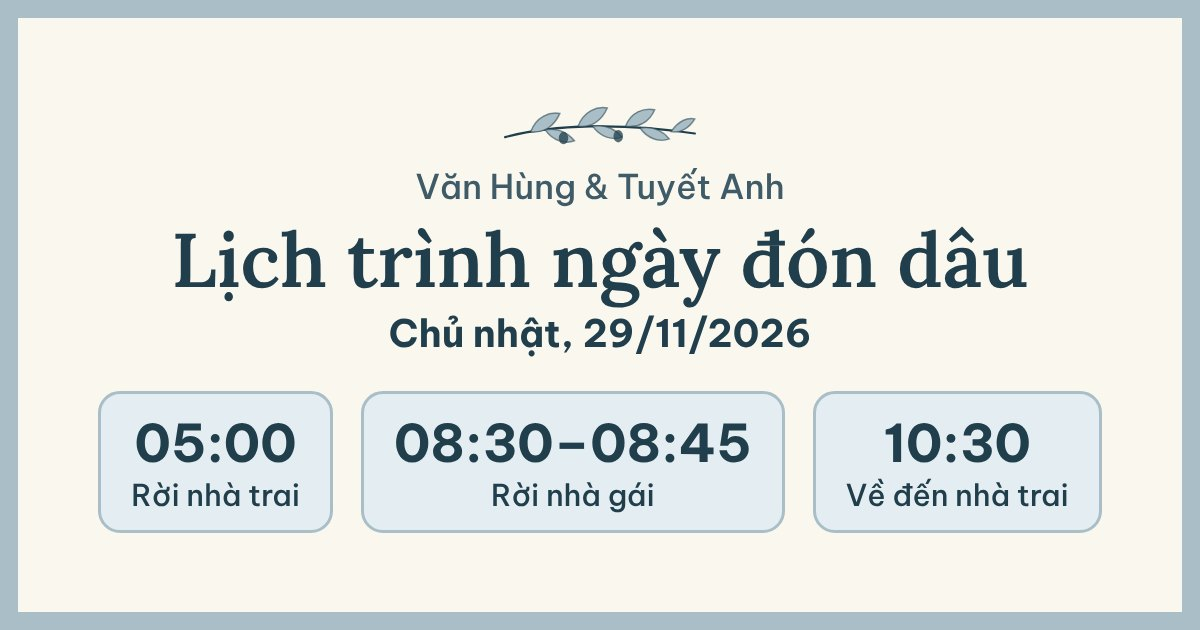
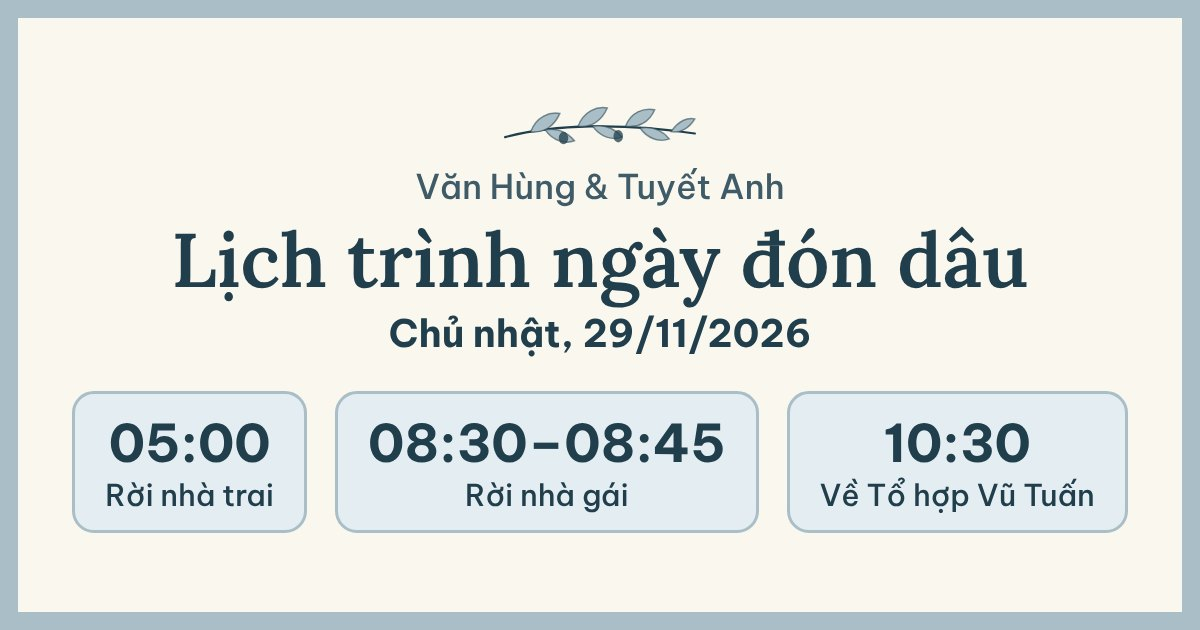
Lượt về đi thẳng tới Tổ hợp Thể thao Vũ Tuấn; rút gọn chữ trên trang lịch trình
- Ghim tiecNhaTrai (20.9581597,106.2743602) trong diaDiemChung; đường vẽ + GPX lượt về vẽ lại tới Vũ Tuấn, lượt đi giữ nguyên.
- Mốc 10:30: Dự kiến về đến Tổ hợp Vũ Tuấn; khai tiệc tại Vũ Tuấn; địa điểm nghi lễ chờ gia đình xác nhận.
- Ảnh xem trước Zalo cập nhật 10:30.

Claude-Session: https://claude.ai/code/session_015XKduHteeoNNHKchYzRXUb

Changed region(s): [[0.0617, 0.6032, 0.9558, 0.8444], [0.8942, 0.6032, 0.925, 0.6333]]

diff --git a/lich-trinh/lich-trinh.js b/lich-trinh/lich-trinh.js
@@ -81,7 +81,7 @@
       (ev.xeChay ? '<span class="tag car">Giờ xe chạy</span>' : '') + '</span>' +
       '<span class="chev" aria-hidden="true"></span></summary><div class="r-body">';
     html += '<h3>' + esc(ev.viec) + '</h3>';
-    if (!hasTime) html += '<p class="time-note">' + esc(str(ev.khiNao) ? str(ev.khiNao) + '. ' : '') + 'Giờ cụ thể: chờ gia đình cập nhật.</p>';
+    if (!hasTime) html += '<p class="time-note">Giờ: chờ gia đình cập nhật.</p>';
     if (str(ev.ghiChuGio)) html += '<p class="time-note">' + esc(ev.ghiChuGio) + '</p>';
 
     html += '<div class="meta">';
@@ -162,24 +162,24 @@
   function tripCards(legs) {
     var html = '';
     legs.forEach(function (l) {
-      var to = PLACES[l.den] || {};
+      var to = PLACES[l.den] || {}, from = PLACES[l.tu] || {};
       html += '<div class="trip" data-luot="' + esc(l.id) + '"><p class="trip-t">' + tripTitle(str(l.oTieuDe) || str(l.ten)) + '</p>' +
         (LEG_URLS[l.id] ? mainButton(l) : '<p class="leg-note warn">Chưa đủ toạ độ để mở Google Maps.</p>') +
-        (str(to.ghiChuGhim) ? '<p class="pin-note">' + esc(to.ghiChuGhim) + '</p>' : '') + '</div>';
+        (str(to.ghiChuGhim || from.ghiChuGhim) ? '<p class="pin-note">' + esc(to.ghiChuGhim || from.ghiChuGhim) + '</p>' : '') + '</div>';
     });
     return html;
   }
   // Trợ giúp khi bản đồ mở trong Zalo: chỉ hiện khi chạm
   function zaloHelp(legs, key) {
     var copies = legs.filter(function (l) { return LEG_URLS[l.id]; }).map(function (l) {
-      return '<button class="btn ghost small" type="button" data-copy="' + esc(l.id) + '">Sao chép link Google Maps' +
+      return '<button class="btn ghost small" type="button" data-copy="' + esc(l.id) + '">Sao chép link' +
         (legs.length > 1 ? ' · ' + esc(/ve$/.test(l.id) ? 'lượt về' : 'lượt đi') : '') + '</button>';
     }).join('');
     return '<details class="zalo-help"><summary>Nếu bản đồ mở trong Zalo</summary><div class="zh-body">' +
-      '<ol><li>Bấm <b>⋯</b> hoặc <b>⋮</b> ở góc trên Zalo, chọn mở bằng trình duyệt (<b>Safari</b> trên iPhone, <b>Chrome</b> trên Android).</li>' +
-      '<li>Trong trình duyệt, bấm lại nút “… – Mở Google Maps”. Nếu máy hỏi, chọn mở bằng ứng dụng <b>Google Maps</b>.</li>' +
-      '<li>Vẫn không được: bấm nút sao chép dưới đây, dán link vào Ghi chú hoặc tin nhắn Zalo gửi chính mình, rồi chạm vào link đó.</li></ol>' +
-      '<p class="zh-note">Bản đồ hiện trong Zalo hoặc trình duyệt chỉ giữ được 3 điểm khoá, ứng dụng Google Maps giữ đủ 6 điểm của đoàn.</p>' +
+      '<ol><li>Bấm <b>⋯</b> góc trên Zalo, chọn mở bằng <b>Safari</b> (iPhone) hoặc <b>Chrome</b> (Android).</li>' +
+      '<li>Bấm lại nút Google Maps, chọn ứng dụng <b>Google Maps</b>.</li>' +
+      '<li>Hoặc sao chép link, dán vào Ghi chú rồi chạm vào.</li></ol>' +
+      '<p class="zh-note">Mở trong Zalo chỉ giữ 3 trên 6 điểm khoá của đoàn.</p>' +
       '<div class="acts">' + copies + '</div><p class="share-msg" id="copyMsg-' + esc(key) + '" role="status" aria-live="polite"></p></div></details>';
   }
   function renderRoute(r) {
@@ -199,7 +199,7 @@
         '<div class="acts map-acts"><button class="btn" type="button" data-gps="' + esc(l.id) + '">' + ICON.pin + 'Vị trí của tôi</button>' +
         '<button class="btn ghost" type="button" data-full="' + esc(l.id) + '">Phóng to bản đồ</button></div>' +
         '<p class="gps-msg" id="gps-' + esc(l.id) + '" role="status" aria-live="polite"></p>' +
-        '<p class="gps-elev" id="elev-' + esc(l.id) + '" hidden>GPS có thể hiển thị gần tuyến dù xe đang ở đường dưới. Người ngồi cạnh kiểm tra biển chỉ dẫn và lối ra.</p>';
+        '<p class="gps-elev" id="elev-' + esc(l.id) + '" hidden>Gần Vành đai 3, GPS dễ lẫn đường trên cao và đường dưới — xem biển chỉ dẫn.</p>';
       // Điểm đi – qua – đến
       html += '<h4 class="steps-h">Các điểm đi qua</h4><ol class="stops">';
       html += '<li><span class="lbl">Đi từ</span>' + esc(str(from.ten) + (str(from.diaChi) ? ' — ' + str(from.diaChi) : '')) +
@@ -213,7 +213,7 @@
       // GPX
       html += '<h4 class="steps-h">Dành cho xe dẫn đoàn</h4><div class="gpx-body">' +
         '<p><a class="btn ghost small" href="' + esc(l.id) + '.gpx" download>Tải file GPX ' + esc(/ve$/.test(l.id) ? 'lượt về' : 'lượt đi') + '</a></p>' +
-        '<p class="leg-note">Đường vẽ cố định của lượt này, dùng cho ứng dụng dẫn đường theo file như OsmAnd (chọn “Theo dõi tuyến”, bật “Gắn vào đường”).</p></div>';
+        '<p class="leg-note">Dùng cho OsmAnd: chọn “Theo dõi tuyến”.</p></div>';
       html += '</div></details>';
     });
 
@@ -226,9 +226,9 @@
     if (tel) acts += '<a class="btn" href="' + esc(tel) + '">' + ICON.phone + 'Gọi ' + esc(str(c.nguoiPhuTrach) || 'người phụ trách') + ' · <span class="num">' + esc(c.soDienThoai) + '</span></a>';
     if (/^https:\/\/zalo\.me\//i.test(str(c.nhomZalo))) acts += '<a class="btn ghost" href="' + esc(c.nhomZalo) + '" target="_blank" rel="noopener">' + ICON.zalo + 'Vào nhóm Zalo đoàn xe</a>';
     if (acts) box += '<div class="acts">' + acts + '</div>';
-    if (!box) box = '<p class="muted">Gia đình đang cập nhật người phụ trách điện thoại, biển số xe dẫn đoàn, nhóm Zalo và điểm hẹn khi tách đoàn.</p>';
+    if (!box) box = '<p class="muted">Gia đình đang cập nhật.</p>';
     html += '<div class="convoy" id="lien-he"><h3>Liên hệ đoàn xe</h3>' + box +
-      '<p class="muted small-t">Ưu tiên gọi người ngồi cạnh tài xế để tài xế tập trung lái xe.</p></div>';
+      '<p class="muted small-t">Ưu tiên gọi người ngồi cạnh tài xế.</p></div>';
 
     var rules = (r.quyTac || []).map(str).filter(Boolean);
     if (rules.length) html += '<div class="convoy"><h3>Đi theo đoàn</h3><ul class="rules">' + rules.map(function (x) { return '<li>' + esc(x) + '</li>'; }).join('') + '</ul></div>';
@@ -396,8 +396,7 @@
       $('elev-' + id).hidden = !nearElev;
     }, function (err) {
       msg.className = 'gps-msg off';
-      msg.textContent = (err.code === 1 ? 'Chưa được phép dùng vị trí. Muốn dùng thì vào cài đặt trình duyệt / Zalo, cho phép Vị trí rồi bấm lại.' : 'Chưa lấy được vị trí, thử lại sau vài giây.') +
-        ' Bản đồ và nút Google Maps vẫn dùng bình thường.';
+      msg.textContent = err.code === 1 ? 'Chưa cho phép dùng vị trí. Bản đồ và nút Google Maps vẫn dùng được.' : 'Chưa lấy được vị trí, thử lại sau.';
     }, { enableHighAccuracy: true, maximumAge: 5000, timeout: 20000 });
   }
 
@@ -418,9 +417,9 @@
 
     var html = note ? '<p class="alert">' + esc(note) + '</p>' : '';
     html += '<section class="sched" aria-labelledby="sched-h"><h2 id="sched-h">Lịch cả buổi sáng</h2>' +
-      '<p class="sched-hint">Chạm vào từng dòng để xem địa điểm, người tham gia và việc cần chuẩn bị.</p><ol class="rows">';
+      '<p class="sched-hint">Chạm từng dòng để xem chi tiết.</p><ol class="rows">';
     (data.chang || []).forEach(function (st, i) {
-      html += '<li class="stage-lbl"><span>Chặng ' + (i + 1) + '</span> ' + esc(st.ten) + '</li>';
+      html += '<li class="stage-lbl">' + esc(st.ten) + '</li>';
       (st.suKien || []).forEach(function (ev) { html += renderEvent(ev); });
     });
     html += '</ol></section>';
@@ -432,7 +431,7 @@
     // Đầu trang: hai ô đi / về, mỗi ô một nút Google Maps
     var top = tripCards(LEGS);
     $('quick').innerHTML = top ? top +
-      '<p class="gm-remind">Google Maps có thể tự đổi đường khi tắc. Đối chiếu với bản đồ tuyến của đoàn ở mục từng lượt bên dưới và đi theo xe dẫn đoàn.</p>' +
+      '<p class="gm-remind">Google Maps có thể đổi đường khi tắc — đi theo xe dẫn đoàn.</p>' +
       zaloHelp(LEGS.filter(function (l) { return LEG_URLS[l.id]; }), 'top') : '';
     $('quick').hidden = !top;
     document.title = (str(data.tieuDe) || 'Lịch trình ngày đón dâu') + ' · ' + (str(data.doiTen) || '');

diff --git a/lich-trinh/index.html b/lich-trinh/index.html
@@ -7,11 +7,11 @@
   <!-- Trang lịch trình đón dâu Chủ nhật 29/11/2026, dành cho gia đình, đội xe, người đi đón dâu.
        NỘI DUNG LỊCH nằm trong lich-trinh.json (cùng thư mục) — sửa tệp đó, không cần sửa trang này.
        Lời xem trước khi gửi qua Zalo / Messenger: các thẻ og: dưới đây. -->
-  <meta name="description" content="Lịch trình ngày đón dâu Văn Hùng & Tuyết Anh, Chủ nhật 29/11/2026: 05:00 xe nhà trai xuất phát, 08:30–08:45 rời nhà gái, 10:30 về đến nhà trai.">
+  <meta name="description" content="Lịch trình ngày đón dâu Văn Hùng & Tuyết Anh, Chủ nhật 29/11/2026: 05:00 xe nhà trai xuất phát, 08:30–08:45 rời nhà gái, 10:30 về Tổ hợp Thể thao Vũ Tuấn.">
   <meta name="robots" content="noindex, nofollow">
   <meta property="og:type" content="website">
   <meta property="og:title" content="Lịch trình ngày đón dâu · Văn Hùng & Tuyết Anh">
-  <meta property="og:description" content="Chủ nhật 29/11/2026 · 05:00 xe nhà trai xuất phát · 08:30–08:45 rời nhà gái · 10:30 về đến nhà trai.">
+  <meta property="og:description" content="Chủ nhật 29/11/2026 · 05:00 xe nhà trai xuất phát · 08:30–08:45 rời nhà gái · 10:30 về Tổ hợp Thể thao Vũ Tuấn.">
   <meta property="og:url" content="https://vhung-spec.github.io/bokin-thiep-onl/lich-trinh/">
   <meta property="og:image" content="https://vhung-spec.github.io/bokin-thiep-onl/lich-trinh/og-lich-trinh.jpg">
   <meta property="og:image:width" content="1200">
@@ -67,7 +67,7 @@
     </button>
     <p class="share-msg" id="shareMsg" role="status" aria-live="polite"></p>
     <p class="updated" id="updated" hidden></p>
-    <p class="link-note">Đường dẫn này giữ nguyên mỗi lần gia đình cập nhật — mở lại tin nhắn cũ là thấy lịch mới nhất.</p>
+    <p class="link-note">Link giữ nguyên, mở lại là thấy bản mới nhất.</p>
   </footer>
 
   <noscript><p class="loading">Trình duyệt đang tắt JavaScript nên chưa hiện được lịch. Hãy mở link bằng Chrome hoặc Safari.</p></noscript>

diff --git a/tools/lo-trinh/tao_lo_trinh.py b/tools/lo-trinh/tao_lo_trinh.py
@@ -26,6 +26,7 @@ def _ghim(key):
 
 NHA_TRAI = _ghim('nhaTrai')   # Phố Văn, Tuệ Tĩnh, Hải Phòng (đang là ghim khu, chờ điểm lên xe chính xác)
 NHA_GAI = _ghim('nhaGai')     # Trung tâm ngoại ngữ STEN, Ngọc Trục, Đại Mỗ
+TIEC_NHA_TRAI = _ghim('tiecNhaTrai')  # Tổ hợp Thể thao Vũ Tuấn Mobile: lượt về đi thẳng tới đây
 
 # Điểm bắt buộc đi qua: (vĩ độ, kinh độ, hướng đi độ, sai số độ)
 LUOT = {
@@ -43,7 +44,7 @@ LUOT = {
                     (20.97157, 105.82196, 120, 60),      # Vành đai 3 trên cao đoạn Linh Đàm
                     (20.9860400, 105.9786744, 135, 60),  # QL5 qua Như Quỳnh, hướng Hải Phòng
                     (20.9323078, 106.0617733, 100, 60),  # QL5 đoạn Mỹ Hào
-                    NHA_TRAI],
+                    TIEC_NHA_TRAI],
 }
 
 # Điểm mốc hiện trên bản đồ: tìm theo tên đoạn đường / kiểu rẽ trong kết quả OSRM
@@ -63,8 +64,8 @@ MOC = {
         ('onramp', 'Lên Vành đai 3 trên cao', 'Ở ngã tư Nguyễn Trãi – Khuất Duy Tiến, theo lối lên CT.37'),
         ('point:20.99456,105.90257', 'Cầu Thanh Trì', 'Qua cầu, đi tiếp tới nút giao QL5'),
         ('road:Đường Nguyễn Đức Thuận', 'Vào Quốc lộ 5', 'Đi QL5 hướng Hải Phòng'),
-        ('road_last:Quốc lộ 5', 'Rời Quốc lộ 5', 'Rẽ trái vào đường về Phố Văn'),
-        ('end', 'Nhà trai — Phố Văn', 'Đến nơi'),
+        ('road_last:Quốc lộ 5', 'Rời Quốc lộ 5', 'Rẽ vào Tổ hợp Thể thao Vũ Tuấn'),
+        ('end', 'Tổ hợp Thể thao Vũ Tuấn', 'Đến nơi'),
     ],
 }
 
@@ -150,7 +151,7 @@ def gpx(key, title, line, marks):
 def main():
     feats = []
     titles = {'lo-trinh-di': 'Lượt đi: Nhà trai → Nhà gái (QL5 · Vành đai 3 trên cao)',
-              'lo-trinh-ve': 'Lượt về: Nhà gái → Nhà trai (Vành đai 3 trên cao · QL5)'}
+              'lo-trinh-ve': 'Lượt về: Nhà gái → Tổ hợp Thể thao Vũ Tuấn (Vành đai 3 trên cao · QL5)'}
     for key, pts in LUOT.items():
         feat, marks, line, tren_cao = build(key, osrm(pts))
         feats += [feat, tren_cao] + marks

diff --git a/README.md b/README.md
@@ -155,9 +155,9 @@ Trang riêng cho **gia đình, đội xe, người đi đón dâu, người ở 
 | Số xe, hướng dẫn tập trung… | `chiTiet`, ví dụ `["Xe 1: 15A-123.45 — anh Tuấn"]` (nằm trong *Xem chi tiết*) |
 | Lời nhắc | `canChuanBi`; người liên quan: `nguoiCanXem` |
 
-**Lộ trình xe cho lái xe** — cung đường cố định, hai lượt cùng một hành lang: Phố Văn → Quốc lộ 5 (Mỹ Hào, Như Quỳnh, Gia Lâm) → cầu Thanh Trì → Vành đai 3 trên cao → lối Nguyễn Trãi/Nguyễn Xiển → Nguyễn Trãi – Trần Phú → Quang Trung → Chu Văn An – Vạn Phúc → Đại Mỗ → Ngọc Trục. Tránh CT04, Tố Hữu, không xuống Vành đai 3 sớm. Link gửi riêng lái xe: `.../lich-trinh/#lo-trinh`.
+**Lộ trình xe cho lái xe** — cung đường cố định, hai lượt cùng một hành lang: Phố Văn → Quốc lộ 5 (Mỹ Hào, Như Quỳnh, Gia Lâm) → cầu Thanh Trì → Vành đai 3 trên cao → lối Nguyễn Trãi/Nguyễn Xiển → Nguyễn Trãi – Trần Phú → Quang Trung → Chu Văn An – Vạn Phúc → Đại Mỗ → Ngọc Trục. Lượt về theo cùng hành lang, đi thẳng tới Tổ hợp Thể thao Vũ Tuấn Mobile. Tránh CT04, Tố Hữu, không xuống Vành đai 3 sớm. Link gửi riêng lái xe: `.../lich-trinh/#lo-trinh`.
 
-- **Đầu trang: hai ô xếp dọc** “05:00 · Nhà trai → Nhà gái” (nút *Mở Google Maps đi nhà gái*) và “08:30–08:45 · Nhà gái → Nhà trai” (nút *Mở Google Maps về nhà trai*, kèm ghi chú ghim Phố Văn). Mỗi nút: điểm đi/đến cố định, `travelmode=driving`, `dir_action=navigate`, 6 điểm khoá đúng thứ tự. Android mở thẳng ứng dụng Google Maps (dự phòng: đúng link HTTPS); iPhone dùng link HTTPS. Mục gập “Nếu bản đồ mở trong Zalo” có hướng dẫn và nút sao chép link. Chữ trên ô và nút: `loTrinh.luot[].oTieuDe`, `nutGoogle`.
+- **Đầu trang: hai ô xếp dọc** “05:00 · Nhà trai → Nhà gái” (nút *Mở Google Maps đi nhà gái*) và “08:30–08:45 · Nhà gái → Tổ hợp Vũ Tuấn” (nút *Mở Google Maps về Vũ Tuấn*; lượt về đi thẳng tới Tổ hợp Thể thao Vũ Tuấn Mobile, ghim `diaDiemChung.tiecNhaTrai`). Mỗi nút: điểm đi/đến cố định, `travelmode=driving`, `dir_action=navigate`, 6 điểm khoá đúng thứ tự. Android mở thẳng ứng dụng Google Maps (dự phòng: đúng link HTTPS); iPhone dùng link HTTPS. Mục gập “Nếu bản đồ mở trong Zalo” có hướng dẫn và nút sao chép link. Chữ trên ô và nút: `loTrinh.luot[].oTieuDe`, `nutGoogle`.
 - **Lịch cả buổi sáng**: mỗi mốc một dòng (giờ + `tomTat`), chạm mới mở địa điểm, người tham gia, việc cần chuẩn bị. Mốc chưa có giờ hiện chữ `gioNgan` (“Sau đó”).
 - **Từng lượt** là một mục gập riêng: bản đồ cố định, các điểm đi qua, chỉ đường từng bước, GPX. Bản đồ chỉ vẽ khi mở mục (đúng kích thước, thấy trọn tuyến).
 - **Bản đồ cố định + GPX** (`lo-trinh-co-dinh.geojson`, `lo-trinh-di.gpx`, `lo-trinh-ve.gpx`) vẽ sẵn, không tính lại khi khách mở trang. Nút *Vị trí của tôi* báo “Vị trí đang gần tuyến của đoàn” hoặc “Cách tuyến vẽ khoảng X m”; gần Vành đai 3 có nhắc GPS dễ lẫn đường trên cao/dưới thấp.
